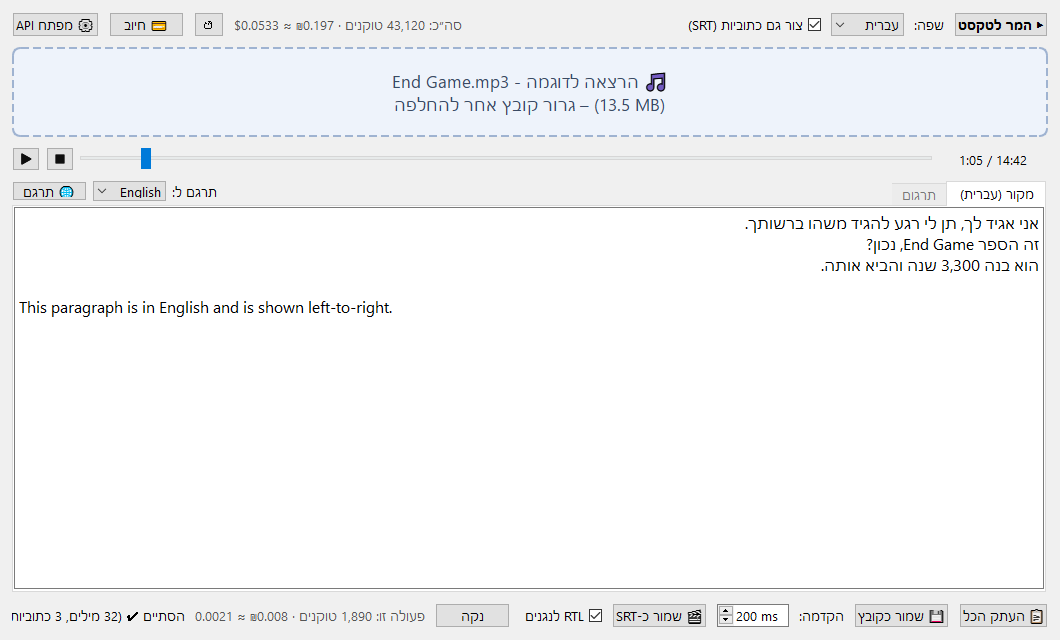
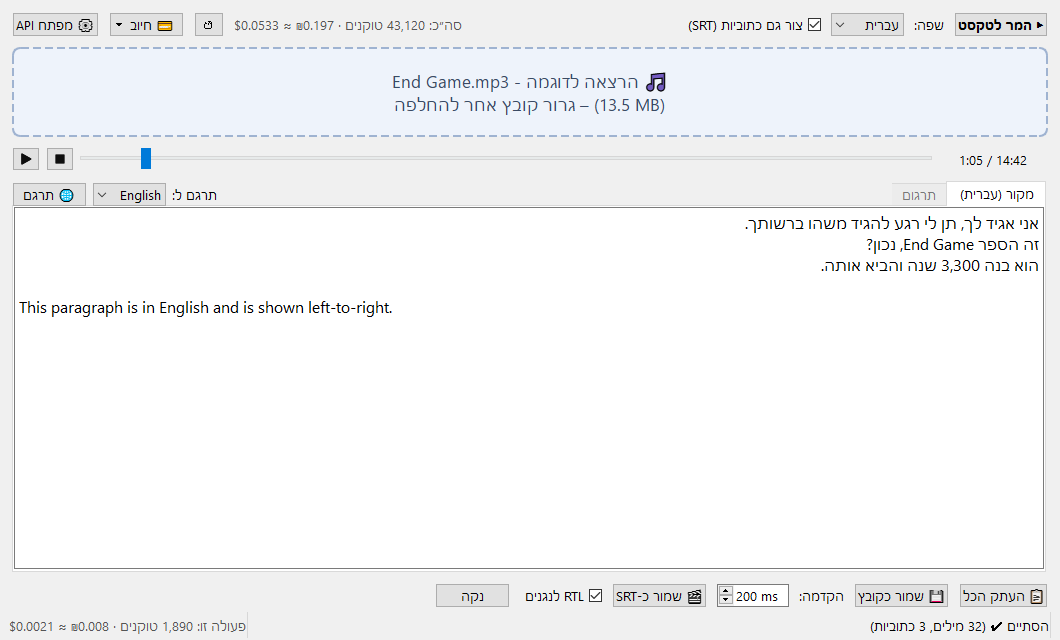
Docs: describe the new bottom status line
Follow-up to ba5f777, which moved the status text, per-operation cost
and progress bar out of the button row into the window's status bar.

- Window layout: the bottom button row no longer lists status/cost; a
  new "status line" entry describes the thin bottom row (status text on
  the right, last operation cost and progress bar on the left).
- Tokens & cost section and README: the last operation's cost is now
  shown in the status line.
- MainWindow code table: __init__ builds the status bar (statusBar()).
- Screenshot regenerated with the status line; HTML rebuilt.

Changed region(s): [[0.0, 0.9062, 0.9962, 1.0], [0.0, 0.2812, 0.2179, 0.3438], [0.1245, 0.0312, 0.1868, 0.0625]]

diff --git a/docs/DOCUMENTATION.html b/docs/DOCUMENTATION.html
@@ -177,7 +177,8 @@ pre.mermaid { direction: ltr; background: none; padding: 0; margin: 0; text-alig
 <p><img alt="החלון הראשי של Mp3toText" src="images/main-window.png" /></p>
 <p><strong>סרגל עליון (מימין לשמאל):</strong> המר לטקסט · שפה · צור גם כתוביות (SRT) · סה״כ טוקנים ועלות · ↺ איפוס · 💳 חיוב · ⚙ מפתח API<br />
 <strong>באמצע:</strong> אזור הגרירה, מתחתיו נגן האודיו (▶/⏸ · ⏹ · ציר זמן · זמן נוכחי / אורך כולל), ומתחתיו תיבת הטקסט עם שתי לשוניות, <strong>מקור</strong> ו<strong>תרגום</strong> (פסקה בעברית מימין לשמאל, פסקה באנגלית משמאל לימין). בקצה השמאלי של שורת הלשוניות: <strong>תרגם ל:</strong> ו-<strong>🌐 תרגם</strong>.<br />
-<strong>סרגל תחתון (מימין לשמאל):</strong> העתק הכל · שמור כקובץ · הקדמה · שמור כ-SRT · RTL לנגנים · נקה · עלות הפעולה האחרונה · סטטוס</p>
+<strong>סרגל תחתון (מימין לשמאל):</strong> העתק הכל · שמור כקובץ · הקדמה · שמור כ-SRT · RTL לנגנים · נקה<br />
+<strong>שורת סטטוס (שורה דקה בתחתית החלון):</strong> מימין הודעת הסטטוס. משמאל עלות הפעולה האחרונה ופס ההתקדמות.</p>
 <h3 id="שלבי-עבודה">שלבי עבודה</h3>
 <ol>
 <li><strong>מפתח API (פעם אחת):</strong> לוחצים <strong>⚙ מפתח API</strong> ומדביקים את המפתח. הוא נשמר ב-<code>config.json</code>. אפשר במקום זה להגדיר משתנה סביבה <code>GEMINI_API_KEY</code>. אין לך מפתח? בחלון המפתח יש כפתור <strong>🔑 קבלת מפתח ב-Google AI Studio</strong> שפותח את https://aistudio.google.com/api-keys.</li>
@@ -212,7 +213,7 @@ pre.mermaid { direction: ltr; background: none; padding: 0; margin: 0; text-alig
 <li><strong>💳 חיוב:</strong> פותח תפריט עם שני קישורים, שנפתחים בדפדפן:</li>
 <li><strong>חיוב – Google Cloud</strong> (<a href="https://console.cloud.google.com/billing">console.cloud.google.com/billing</a>): החיוב בפועל ואמצעי התשלום, ואפשר לקבוע שם תקציב והתראות. הסכום שמוצג באפליקציה הוא הערכה בלבד.</li>
 <li><strong>מעקב אחר ניצול המכסה</strong> (<a href="https://ai.dev/rate-limit">ai.dev/rate-limit</a>): כמה בקשות נוצלו מהמכסה לדקה וליום, ומתי היא מתאפסת. במסלול החינמי המכסה של <code>gemini-2.5-flash</code> היא 20 בקשות ביום.</li>
-<li><strong>למטה:</strong> העלות של ההמרה האחרונה. כשמרחפים מעליה מוצג פירוט: אודיו נכנס, טקסט נכנס ופלט.</li>
+<li><strong>בשורת הסטטוס:</strong> העלות של הפעולה האחרונה (תמלול או תרגום). כשמרחפים מעליה מוצג פירוט: אודיו נכנס, טקסט נכנס ופלט.</li>
 <li>המחיר מחושב לפי המחירון של שכבה בתשלום. <strong>בשכבה החינמית אין חיוב בפועל.</strong></li>
 </ul>
 <div class="table-wrap"><table>
@@ -557,7 +558,7 @@ pre.mermaid { direction: ltr; background: none; padding: 0; margin: 0; text-alig
 <tr>
 <td>בנייה</td>
 <td><code>__init__</code></td>
-<td>בניית הממשק: סרגל עליון, אזור גרירה, נגן אודיו, תיבת טקסט, סרגל תחתון</td>
+<td>בניית הממשק: סרגל עליון, אזור גרירה, נגן אודיו, לשוניות הטקסט, סרגל תחתון, ושורת סטטוס (<code>statusBar()</code>) עם הודעת הסטטוס, עלות הפעולה ופס ההתקדמות</td>
 </tr>
 <tr>
 <td>הגדרות</td>

diff --git a/docs/DOCUMENTATION.md b/docs/DOCUMENTATION.md
@@ -53,7 +53,8 @@ python app.py
 
 **סרגל עליון (מימין לשמאל):** המר לטקסט · שפה · צור גם כתוביות (SRT) · סה״כ טוקנים ועלות · ↺ איפוס · 💳 חיוב · ⚙ מפתח API  
 **באמצע:** אזור הגרירה, מתחתיו נגן האודיו (▶/⏸ · ⏹ · ציר זמן · זמן נוכחי / אורך כולל), ומתחתיו תיבת הטקסט עם שתי לשוניות, **מקור** ו**תרגום** (פסקה בעברית מימין לשמאל, פסקה באנגלית משמאל לימין). בקצה השמאלי של שורת הלשוניות: **תרגם ל:** ו-**🌐 תרגם**.  
-**סרגל תחתון (מימין לשמאל):** העתק הכל · שמור כקובץ · הקדמה · שמור כ-SRT · RTL לנגנים · נקה · עלות הפעולה האחרונה · סטטוס
+**סרגל תחתון (מימין לשמאל):** העתק הכל · שמור כקובץ · הקדמה · שמור כ-SRT · RTL לנגנים · נקה  
+**שורת סטטוס (שורה דקה בתחתית החלון):** מימין הודעת הסטטוס. משמאל עלות הפעולה האחרונה ופס ההתקדמות.
 
 ### שלבי עבודה
 
@@ -89,7 +90,7 @@ python app.py
 - **💳 חיוב:** פותח תפריט עם שני קישורים, שנפתחים בדפדפן:
   - **חיוב – Google Cloud** ([console.cloud.google.com/billing](https://console.cloud.google.com/billing)): החיוב בפועל ואמצעי התשלום, ואפשר לקבוע שם תקציב והתראות. הסכום שמוצג באפליקציה הוא הערכה בלבד.
   - **מעקב אחר ניצול המכסה** ([ai.dev/rate-limit](https://ai.dev/rate-limit)): כמה בקשות נוצלו מהמכסה לדקה וליום, ומתי היא מתאפסת. במסלול החינמי המכסה של `gemini-2.5-flash` היא 20 בקשות ביום.
-- **למטה:** העלות של ההמרה האחרונה. כשמרחפים מעליה מוצג פירוט: אודיו נכנס, טקסט נכנס ופלט.
+- **בשורת הסטטוס:** העלות של הפעולה האחרונה (תמלול או תרגום). כשמרחפים מעליה מוצג פירוט: אודיו נכנס, טקסט נכנס ופלט.
 - המחיר מחושב לפי המחירון של שכבה בתשלום. **בשכבה החינמית אין חיוב בפועל.**
 
 | סוג טוקן | מחיר ל-1M טוקנים (`gemini-2.5-flash`) |
@@ -272,7 +273,7 @@ flowchart TB
 
 | קבוצה | מתודות | תיאור |
 |---|---|---|
-| בנייה | `__init__` | בניית הממשק: סרגל עליון, אזור גרירה, נגן אודיו, תיבת טקסט, סרגל תחתון |
+| בנייה | `__init__` | בניית הממשק: סרגל עליון, אזור גרירה, נגן אודיו, לשוניות הטקסט, סרגל תחתון, ושורת סטטוס (`statusBar()`) עם הודעת הסטטוס, עלות הפעולה ופס ההתקדמות |
 | הגדרות | `on_srt_toggled`, `on_lang_changed`, `on_lead_changed` | כל שינוי בממשק נשמר מיד ל-`config.json` |
 | מפתח | `get_api_key`, `ask_api_key` | המפתח נלקח מ-`config.json`, ואם אין שם, מ-`GEMINI_API_KEY` |
 | טעינה | `browse`, `load_file`, `dragEnterEvent`, `dropEvent` | בדיקת סיומת, עדכון אזור הגרירה, איפוס כתוביות ישנות, טעינת הקובץ לנגן |

diff --git a/README.md b/README.md
@@ -25,6 +25,6 @@ pip install -r requirements.txt
 ניתן לשנות מודל ע"י הוספת `"model": "..."` ל-`config.json` (ברירת מחדל: `gemini-2.5-flash`).
 
 ## טוקנים ועלות
-- למעלה: סה״כ מצטבר (נשמר ב-`config.json`, כפתור ↺ לאיפוס). למטה: עלות ההמרה האחרונה (ריחוף מציג פירוט).
+- למעלה: סה״כ מצטבר (נשמר ב-`config.json`, כפתור ↺ לאיפוס). בשורת הסטטוס בתחתית החלון: עלות הפעולה האחרונה (ריחוף מציג פירוט).
 - המחיר מחושב לפי שכבה בתשלום של `gemini-2.5-flash`: אודיו $1.00, טקסט $0.30, פלט $2.50 למיליון טוקנים. בשכבה החינמית אין חיוב בפועל.
 - שער הדולר לשקל: ברירת מחדל 3.7, ניתן לשנות ב-`config.json` עם `"usd_to_ils": 3.65`.
